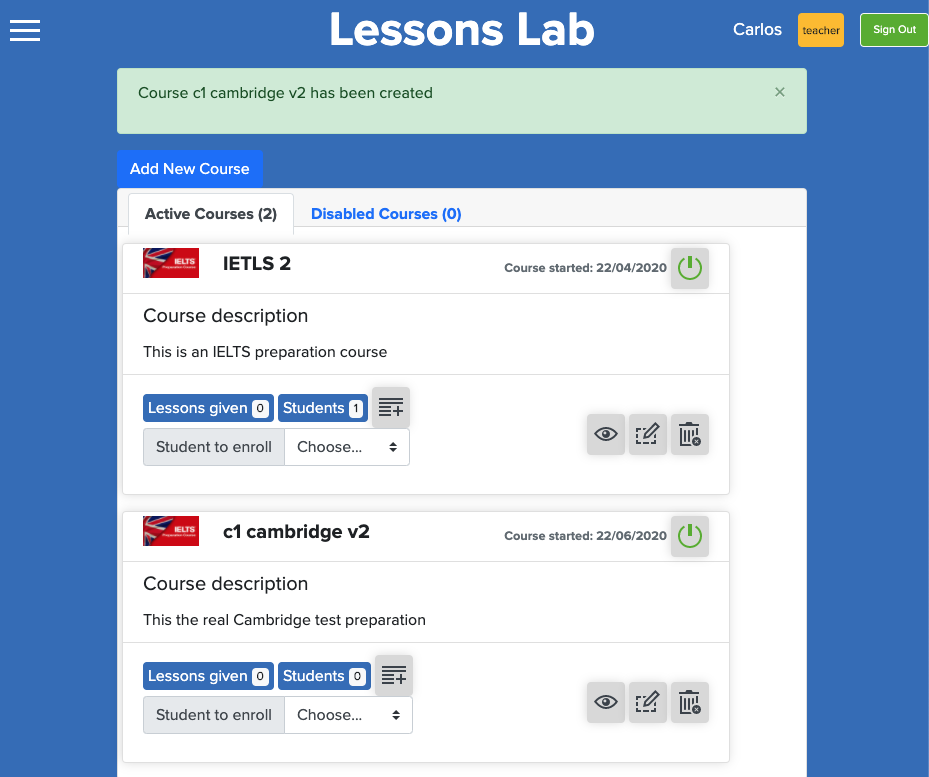
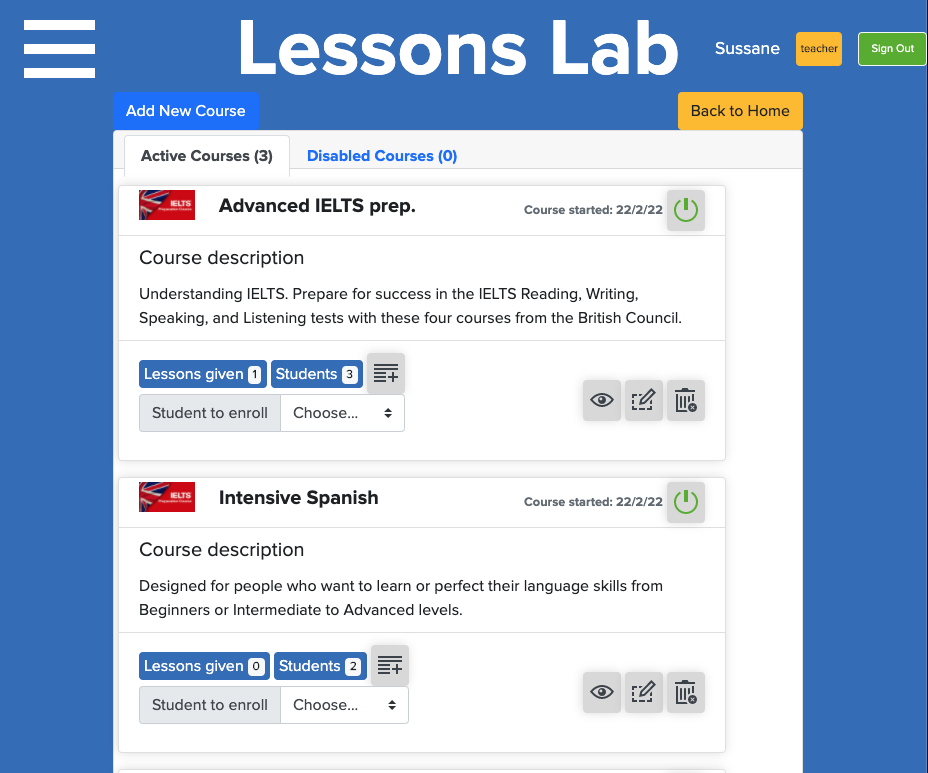
readme adjust

diff --git a/README.md b/README.md
@@ -11,6 +11,20 @@ This web application is a mobile application targeting freelance teachers to adm
 
 [heroku live site](https://shrouded-plains-92148.herokuapp.com/)
 
+For the demo, use the following pre-loaded users. You could also create new users. For all users password is: password
+
+| email            | name    | role    |   |   |
+|------------------|---------|---------|---|---|
+| email1@email.com | Sussane | teacher |   |   |
+| email2@email.com | Carlos  | teacher |   |   |
+| email3@email.com | Anna    | student |   |   |
+| email4@email.com | Clara   | student |   |   |
+| email5@email.com | Cecil   | student |   |   |
+| email6@email.com | Caro    | student |   |   |
+| email7@email.com | Matt    | student |   |   |
+| email8@email.com | Laureano| student |   |   |
+| email9@email.com | Robert  | student |   |   |
+
 ## Customer Story
 
     - The user logs in to the app, only by typing the email
@@ -20,7 +34,7 @@ This web application is a mobile application targeting freelance teachers to adm
         a. Bookings ("all my transactions")
             - Inside bookings two taps hell to show  
         b. All Course 
-        d. Additional feature: All students
+        d. Additional feature: All students '''not abailable in demo'''
 
     4. When a logged-in user opens "My billable bookings" page
         a. Total amount of booked minutes are displayed on top
@@ -50,18 +64,16 @@ This web application is a mobile application targeting freelance teachers to adm
     8. When a logged-in user opens "create a new course" or "Add new transaction" page
         a. A form with all necessary fields is displayed.
 
-    
         
-    9. At the end  extend your MVP app with one simple feature of your choice
-        a. Add feature: For create a new course, the following data should be provided
+    9. Add feature: For create a new course, the following key data should be provided (among others)
             i. Course name
             ii. Price per session
             iii. Session length
             
     10. Additional feature: Signing up students to courses:
-        a. Only a professor can enroll students in courses.
-        b. Sign-up student button is available only on the "course transactions page"
-        c. "add a new transaction" will be shown on the "course transaction page"
+        a. Only a professor and course author can enroll students in courses.
+        b. Enroll student button is available only on the "course index page"
+        c. "add a new transaction" shows on the "course transaction page"
             i. A transaction can be created only for students signed up into the Course.
             
     11. Additional features:Signup of students page
@@ -69,7 +81,7 @@ This web application is a mobile application targeting freelance teachers to adm
             i. Name
             ii. Email
             iii. Role: student
-Optionally: assign course
+        ```for simplification this feature is not implemented in the demo```
 
 ## Environment set up requirements
 
@@ -101,6 +113,12 @@ This action will install all the required dependencies.
 - Ruby
 - Ruby on Rails
 - bootstrap
+- Devise
+- RSpec
+- Capybara
+- FactoryBot
+- Shoulda-Matchers
+
 
 ## Authors
 
@@ -115,6 +133,13 @@ This action will install all the required dependencies.
 Contributions, issues and feature requests are welcome!
 
 Feel free to check the [issues page](issues/).
+
+## Acknowledgments
+
+- My Family (Oh man, after 70 hs in 9 days, definetley it has been a fundamental support)
+- The great TSE team for a fast review, key challenges and contributions: Addo, Simon and Issac. Thanks Guys!
+- @microverse / The Corgis
+
 
 ## Show your support
 
